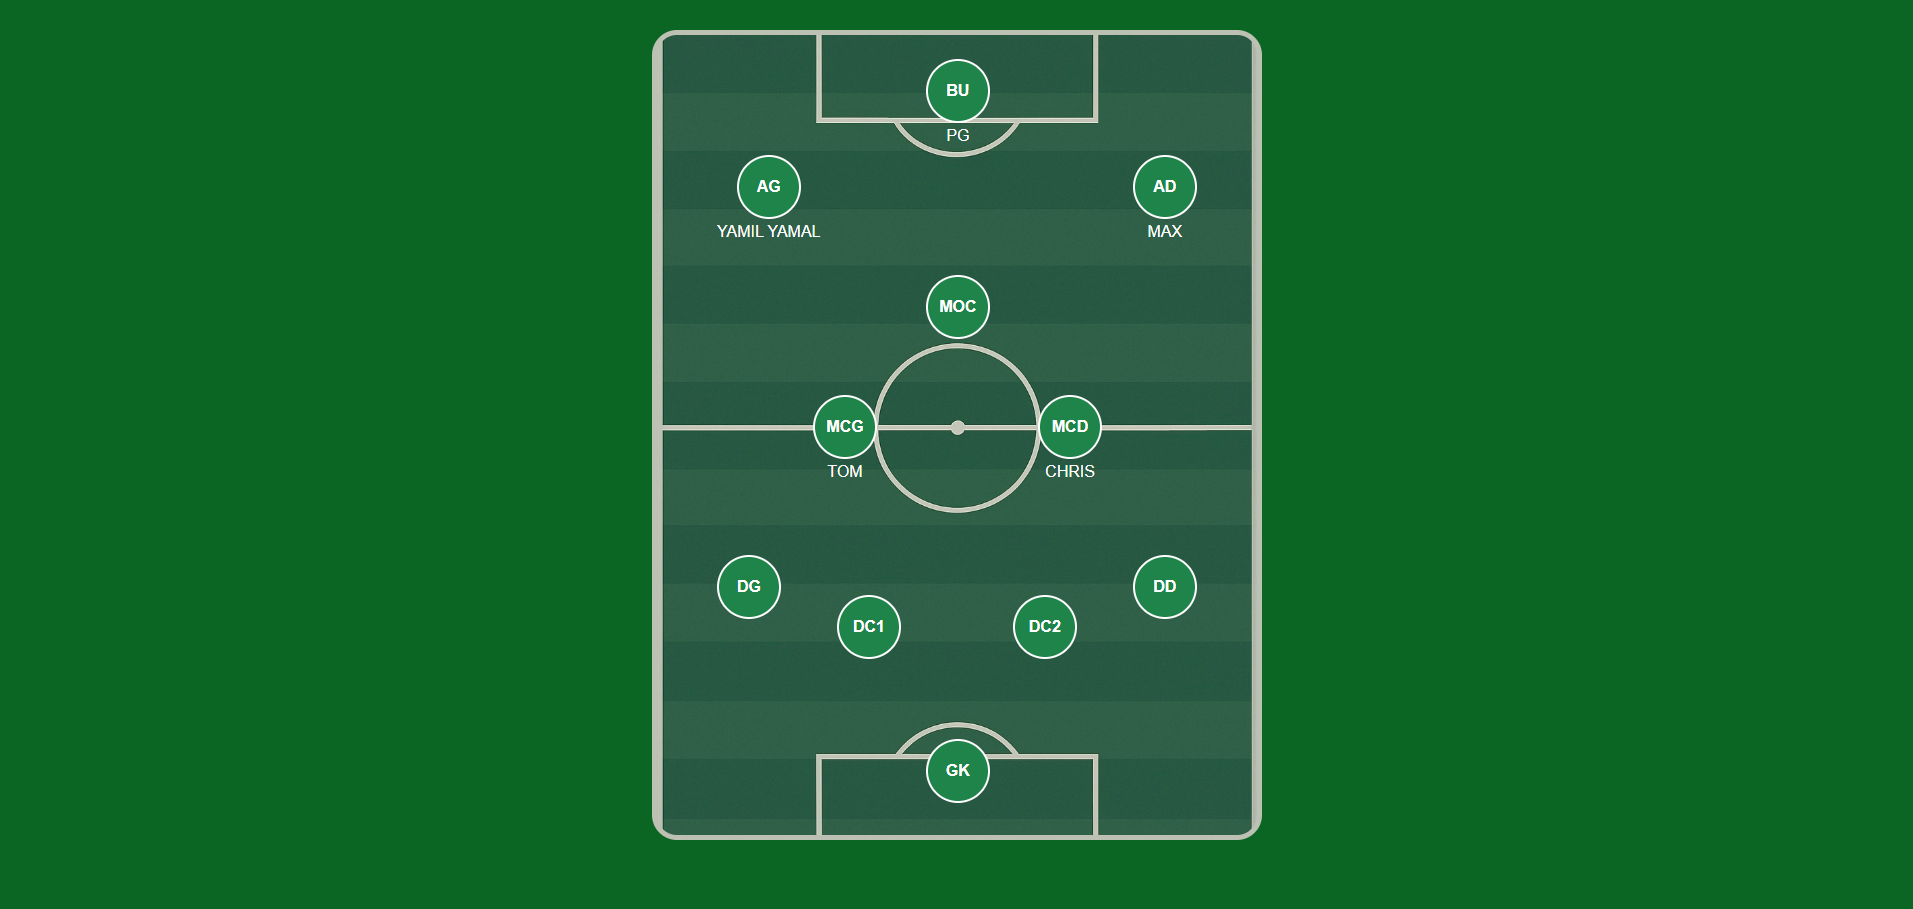
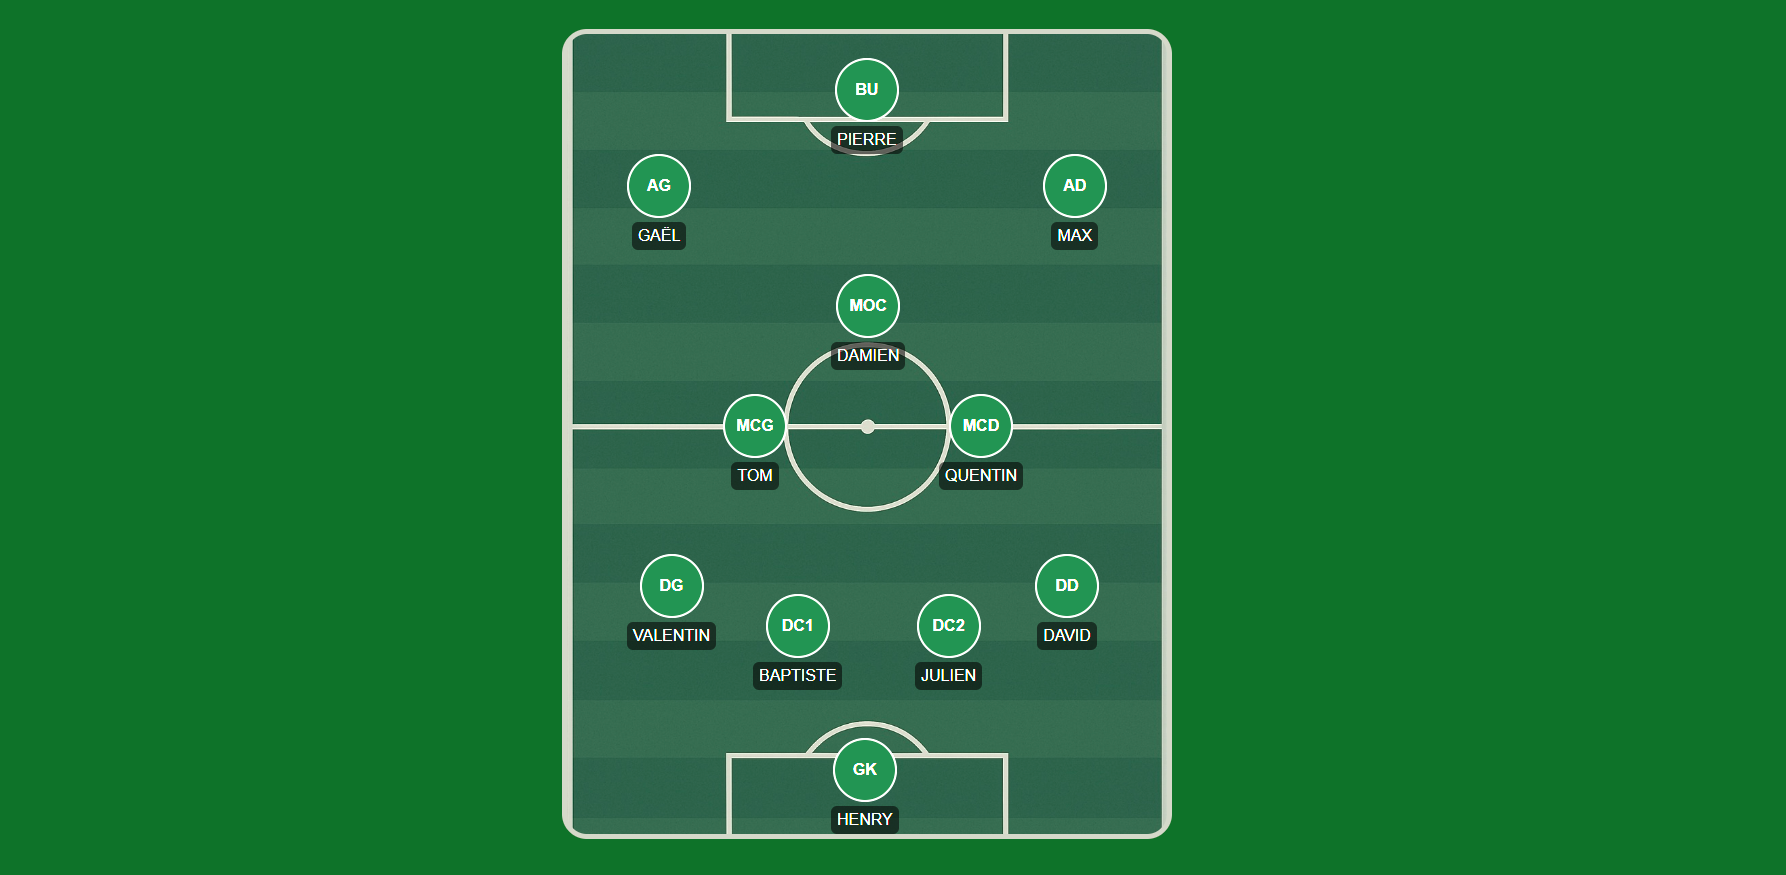
61

Changed region(s): [[0.308, 0.0309, 0.6775, 0.9566]]

diff --git a/index.html b/index.html
@@ -254,124 +254,7 @@
                 * Les plateformes sont adaptées à tous les appareils (mobiles, tablettes, ordinateurs).
             </p>
         </div>
-        <!-- TECH STACKS -->
-        <section class="stacks">
-            <div class="stack-grid">
-                <!--  TECH 1  -->
-                <a href="https://fr.wikipedia.org/wiki/HTML" target="_blank">
-                    <div class="stack-item">              
-                        <i class="devicon-html5-plain colored"></i>
-                        <p>HTML5</p>
-                    </div>
-                </a>
-                <!--  TECH 2  -->
-                <a href="https://fr.wikipedia.org/wiki/Twig" target="_blank">
-                    <div class="stack-item">
-                        <img src="images/twig.png" alt="Twig">
-                        <p>TWIG</p>
-                    </div>
-                </a>
-                <!--  TECH 3  -->
-                <a href="https://fr.wikipedia.org/wiki/Feuilles_de_style_en_cascade#CSS" target="_blank">
-                    <div class="stack-item">
-                        <i class="devicon-css3-plain colored"></i>
-                        <p>CSS3</p>
-                    </div>
-                </a>
-                <!--  TECH 4  -->
-                <a href="https://fr.wikipedia.org/wiki/Sass_(langage)" target="_blank">
-                    <div class="stack-item">
-                        <i class="devicon-sass-original colored"></i>
-                        <p>SCSS/SASS</p>
-                    </div>
-                </a>
-                <!--  TECH 5  -->
-                <a href="https://fr.wikipedia.org/wiki/JavaScript" target="_blank">
-                    <div class="stack-item">
-                        <i class="devicon-javascript-plain colored"></i>
-                        <p>JavaScript</p>
-                    </div>
-                </a>
-                <!--  TECH 6  -->
-                <a href="https://fr.wikipedia.org/wiki/PHP" target="_blank">
-                    <div class="stack-item">
-                        <i class="devicon-php-plain colored"></i>
-                        <p>PHP</p>
-                    </div>
-                </a>
-                <!--  TECH 7  -->
-                <a href="https://fr.wikipedia.org/wiki/Symfony" target="_blank">
-                    <div class="stack-item">
-                        <i class="devicon-symfony-original colored symfony-dark"></i>
-                        <p>Symfony</p>
-                    </div>
-                </a>
-                <!--  TECH 8  -->
-                <a href="https://fr.wikipedia.org/wiki/MySQL" target="_blank">
-                    <div class="stack-item">
-                        <i class="devicon-mysql-plain colored"></i>
-                        <p>MySQL</p>
-                    </div>
-                </a>
-                <!--  TECH 9  -->
-                <a href="https://fr.wikipedia.org/wiki/Firebase" target="_blank">
-                    <div class="stack-item">
-                        <i class="devicon-firebase-plain colored"></i>
-                        <p>Firebase</p>
-                    </div>
-                </a>
-                <!--  TECH 10  -->
-                <a href="https://fr.wikipedia.org/wiki/Git" target="_blank">
-                    <div class="stack-item">
-                        <i class="devicon-git-plain colored"></i>
-                        <p>Git</p>
-                    </div>
-                </a>
-                <!--  TECH 11  -->
-                <a href="https://fr.wikipedia.org/wiki/GitHub" target="_blank">
-                    <div class="stack-item">
-                        <i class="devicon-github-plain colored github-dark"></i>
-                        <p>GitHub</p>
-                    </div>
-                </a>
-                <!--  TECH 12  -->
-                <a href="https://fr.wikipedia.org/wiki/Figma" target="_blank">
-                    <div class="stack-item">  
-                        <img src="https://cdn.jsdelivr.net/gh/devicons/devicon@latest/icons/figma/figma-original.svg" />
-                        <p>Figma</p>
-                    </div>
-                </a>
-                <!--  TECH 13  -->
-                <a href="https://fr.wikipedia.org/wiki/Visual_Studio_Code" target="_blank">
-                    <div class="stack-item">
-                        <i class="devicon-visualstudio-plain colored"></i>
-                        <p>VS Code</p>
-                    </div>
-                </a>
-                <!--  TECH 14  -->
-                <a href="https://fr.wikipedia.org/wiki/PhpStorm" target="_blank">
-                    <div class="stack-item">
-                        <img src="https://cdn.jsdelivr.net/gh/devicons/devicon@latest/icons/phpstorm/phpstorm-original.svg" />
-                        <p>PHPStorm</p>
-                    </div>
-                </a>
-                <!--  TECH 15  -->
-                <a href="https://fr.wikipedia.org/wiki/WordPress" target="_blank">
-                    <div class="stack-item">
-                        <i class="devicon-wordpress-plain colored wordpress-dark"></i>
-                        <p>WordPress</p>
-                    </div>
-                </a>
-                <!--  TECH 16  -->
-                <a href="https://fr.wikipedia.org/wiki/Wix.com" target="_blank">
-                    <div class="stack-item wix-dark">
-                        <img src="https://img.icons8.com/?size=100&id=cQfKnWABsKk9&format=png&color=000000" alt="Wix">
-                        <p>Wix</p>
-                    </div>
-                </a>
-            </div>
-        </section>
-        
+
         <!-- PROJETS -->
         <section class="projects" id="projets">
             <h2 class="projects-title">Projets réalisés</h2>
@@ -493,6 +376,125 @@
                 </div>
             </div>
         </section>
+
+        <!-- TECH STACKS -->
+        <section class="stacks">
+            <div class="stack-grid">
+                <!--  TECH 1  -->
+                <a href="https://fr.wikipedia.org/wiki/HTML" target="_blank">
+                    <div class="stack-item">              
+                        <i class="devicon-html5-plain colored"></i>
+                        <p>HTML5</p>
+                    </div>
+                </a>
+                <!--  TECH 2  -->
+                <a href="https://fr.wikipedia.org/wiki/Twig" target="_blank">
+                    <div class="stack-item">
+                        <img src="images/twig.png" alt="Twig">
+                        <p>TWIG</p>
+                    </div>
+                </a>
+                <!--  TECH 3  -->
+                <a href="https://fr.wikipedia.org/wiki/Feuilles_de_style_en_cascade#CSS" target="_blank">
+                    <div class="stack-item">
+                        <i class="devicon-css3-plain colored"></i>
+                        <p>CSS3</p>
+                    </div>
+                </a>
+                <!--  TECH 4  -->
+                <a href="https://fr.wikipedia.org/wiki/Sass_(langage)" target="_blank">
+                    <div class="stack-item">
+                        <i class="devicon-sass-original colored"></i>
+                        <p>SCSS/SASS</p>
+                    </div>
+                </a>
+                <!--  TECH 5  -->
+                <a href="https://fr.wikipedia.org/wiki/JavaScript" target="_blank">
+                    <div class="stack-item">
+                        <i class="devicon-javascript-plain colored"></i>
+                        <p>JavaScript</p>
+                    </div>
+                </a>
+                <!--  TECH 6  -->
+                <a href="https://fr.wikipedia.org/wiki/PHP" target="_blank">
+                    <div class="stack-item">
+                        <i class="devicon-php-plain colored"></i>
+                        <p>PHP</p>
+                    </div>
+                </a>
+                <!--  TECH 7  -->
+                <a href="https://fr.wikipedia.org/wiki/Symfony" target="_blank">
+                    <div class="stack-item">
+                        <i class="devicon-symfony-original colored symfony-dark"></i>
+                        <p>Symfony</p>
+                    </div>
+                </a>
+                <!--  TECH 8  -->
+                <a href="https://fr.wikipedia.org/wiki/MySQL" target="_blank">
+                    <div class="stack-item">
+                        <i class="devicon-mysql-plain colored"></i>
+                        <p>MySQL</p>
+                    </div>
+                </a>
+                <!--  TECH 9  -->
+                <a href="https://fr.wikipedia.org/wiki/Firebase" target="_blank">
+                    <div class="stack-item">
+                        <i class="devicon-firebase-plain colored"></i>
+                        <p>Firebase</p>
+                    </div>
+                </a>
+                <!--  TECH 10  -->
+                <a href="https://fr.wikipedia.org/wiki/Git" target="_blank">
+                    <div class="stack-item">
+                        <i class="devicon-git-plain colored"></i>
+                        <p>Git</p>
+                    </div>
+                </a>
+                <!--  TECH 11  -->
+                <a href="https://fr.wikipedia.org/wiki/GitHub" target="_blank">
+                    <div class="stack-item">
+                        <i class="devicon-github-plain colored github-dark"></i>
+                        <p>GitHub</p>
+                    </div>
+                </a>
+                <!--  TECH 12  -->
+                <a href="https://fr.wikipedia.org/wiki/Figma" target="_blank">
+                    <div class="stack-item">  
+                        <img src="https://cdn.jsdelivr.net/gh/devicons/devicon@latest/icons/figma/figma-original.svg" />
+                        <p>Figma</p>
+                    </div>
+                </a>
+                <!--  TECH 13  -->
+                <a href="https://fr.wikipedia.org/wiki/Visual_Studio_Code" target="_blank">
+                    <div class="stack-item">
+                        <i class="devicon-visualstudio-plain colored"></i>
+                        <p>VS Code</p>
+                    </div>
+                </a>
+                <!--  TECH 14  -->
+                <a href="https://fr.wikipedia.org/wiki/PhpStorm" target="_blank">
+                    <div class="stack-item">
+                        <img src="https://cdn.jsdelivr.net/gh/devicons/devicon@latest/icons/phpstorm/phpstorm-original.svg" />
+                        <p>PHPStorm</p>
+                    </div>
+                </a>
+                <!--  TECH 15  -->
+                <a href="https://fr.wikipedia.org/wiki/WordPress" target="_blank">
+                    <div class="stack-item">
+                        <i class="devicon-wordpress-plain colored wordpress-dark"></i>
+                        <p>WordPress</p>
+                    </div>
+                </a>
+                <!--  TECH 16  -->
+                <a href="https://fr.wikipedia.org/wiki/Wix.com" target="_blank">
+                    <div class="stack-item wix-dark">
+                        <img src="https://img.icons8.com/?size=100&id=cQfKnWABsKk9&format=png&color=000000" alt="Wix">
+                        <p>Wix</p>
+                    </div>
+                </a>
+            </div>
+        </section>
+        
         <!-- CONTACT -->
         <section class="contact" id="contact">
             <form id="contactForm" action="https://formsubmit.co/[email redacted]" method="POST" class="contact-form">

diff --git a/styles.css b/styles.css
@@ -321,16 +321,13 @@ p {
     padding: 1rem 0;
 }
 
-.stacks {
-    padding-bottom: 4rem;
-}
-
 .stack-grid {
     display: grid;
     grid-template-columns: repeat(auto-fit, minmax(120px, 1fr));
     gap: 2rem;
     max-width: 900px;
     margin: 0 auto;
+    margin-top: 5rem;
 }
 
 .stack-item {
@@ -522,10 +519,10 @@ p {
 }
 
 .price-item ul li:first-child {
-    position: absolute;   /* NEW */
-    top: 2rem;            /* NEW → ajuste si besoin */
-    left: 2rem;           /* NEW (ou 0 si tu préfères) */
-    width: calc(100% - 4rem); /* NEW pour éviter overflow */
+    position: absolute;
+    top: 2rem;
+    left: 2rem;
+    width: calc(100% - 4rem);
     font-weight: normal;
     margin-left: -4rem;
     width: 100%;
@@ -620,10 +617,20 @@ p {
     box-shadow: 0 8px 25px rgba(0,0,0,0.30);
 }
 
-.project-img img {
-    width: 100%;
-    display: block;
+.project-img{
+  width: 100%;
+  aspect-ratio: 16 / 9;
+  overflow: hidden;
 }
+
+.project-img img{
+  width: 100%;
+  height: 100%;
+  object-fit: cover;
+  object-position: center;
+  display: block;
+}
+
 
 .project-content {
     padding: 1.5rem;
@@ -711,6 +718,7 @@ p {
 
 .contact {
     padding: 10rem 1rem;
+    padding-top: 3rem;
     max-width: 900px;
     margin: 0 auto;
 }
@@ -1159,6 +1167,13 @@ footer {
     }
 }
 
+@media (min-width: 598px) and (max-width: 1150px) {
+    .info {
+        margin-left: 1.5rem;
+        margin-right: 1.5rem;
+    }
+}
+
 @media (hover: none) {
   .stack-item:hover {
     transform: none !important;
@@ -1215,6 +1230,7 @@ footer {
     font-weight: 800;
     color: var(--color3);
     text-align: left;
+    margin-bottom: 1rem;
     }
 
     .price-item ul {
@@ -1261,7 +1277,9 @@ footer {
     .info {
     font-size: 0.85rem;
     margin-top: 0.4rem;
-    margin-left: 0.9rem;
+    margin-left: 1rem;
+    margin-right: 1rem;
+    margin-bottom: 3rem;
     }
 
     .button.mobile-only {